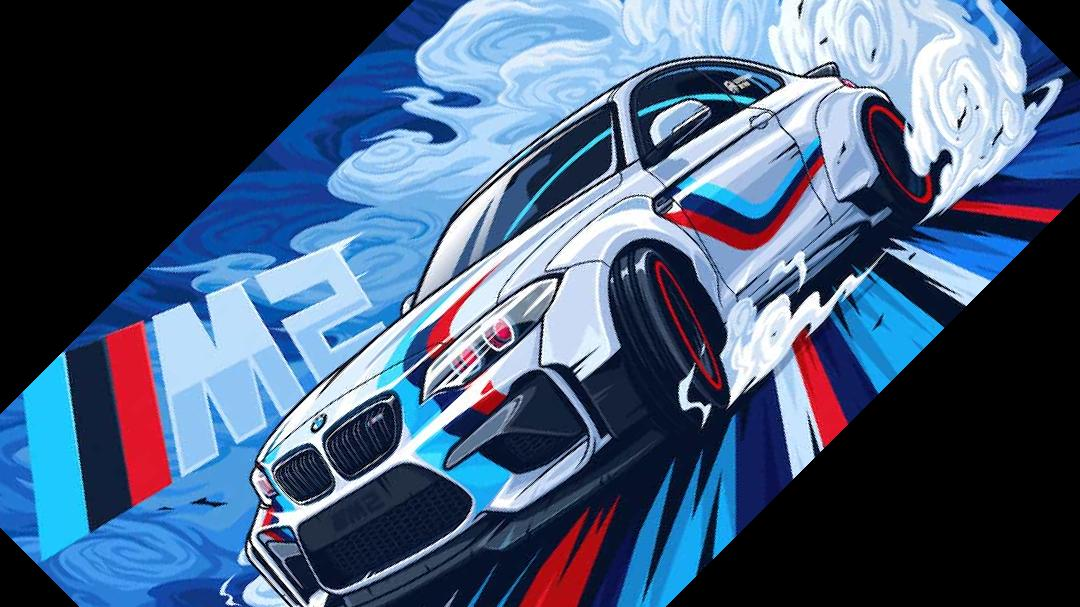
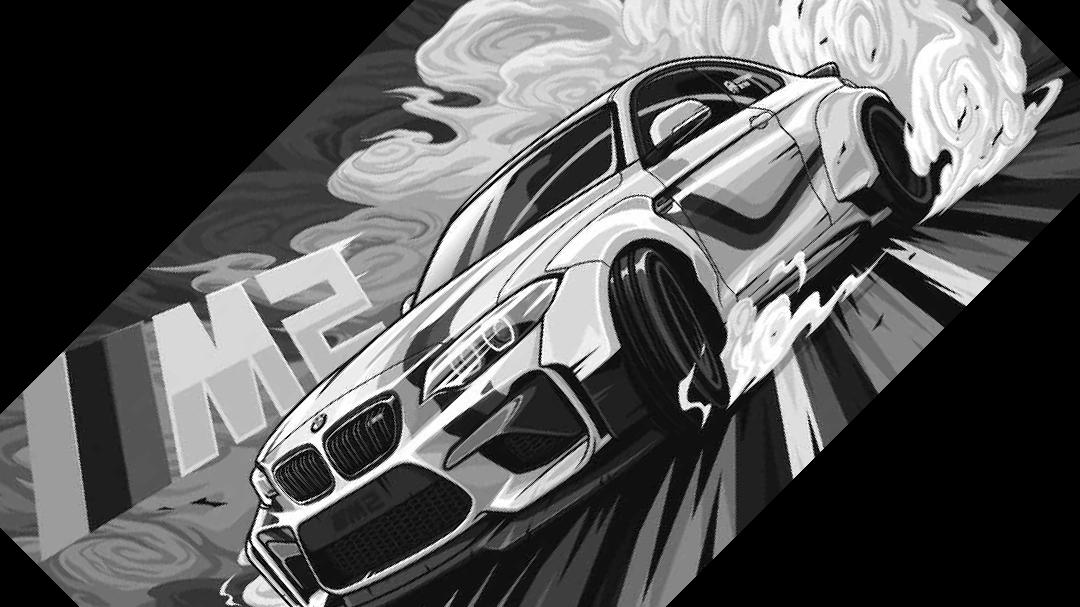
New DIP Lab codes added

diff --git a/Python-LAB2025/Lab-ImageProcessing/ImageRotation.py b/Python-LAB2025/Lab-ImageProcessing/ImageRotation.py
@@ -1,7 +1,7 @@
 from PIL import Image
 from numpy import asarray
 
-Im=Image.open("Image1.jpg")
+Im=Image.open("Image1.jpg").convert("L")
 print("Format of the Image:",Im.format)
 print("Orginal Image:")
 Im.show()
